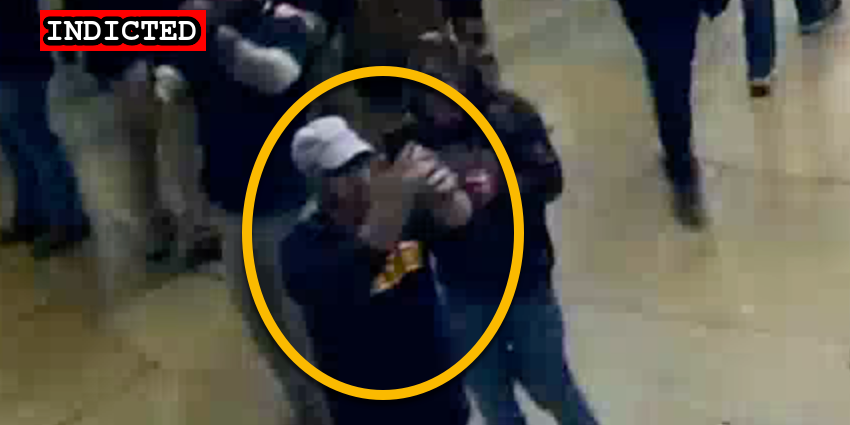
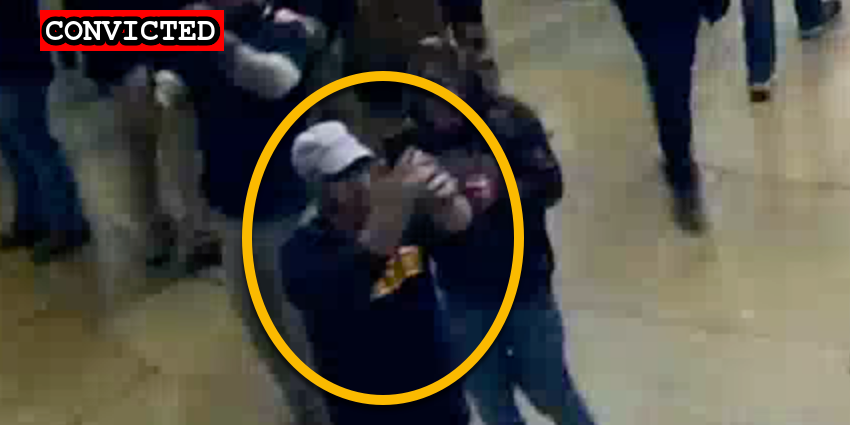
Dolan Plea

diff --git a/docs/_suspects/jason-dolan.md b/docs/_suspects/jason-dolan.md
@@ -3,11 +3,11 @@ name: Jason Dolan
 lastName: Dolan
 aka:
 residence: Florida
-status: Indicted
+status: Convicted
 date: 2021-05-26
 charged: 2021-05-26
 indicted: 2021-05-26
-convicted:
+convicted: 2021-09-15
 sentenced:
 dismissed:
 deceased:
@@ -31,7 +31,16 @@ published: true
 caseNumber: 1:21-cr-28
 videos:
 charges:
+  - code: '18 USC § 371'
+    title: 'Conspiracy to commit an offense against the United States'
+    url: 'https://www.law.cornell.edu/uscode/text/18/371'
+    felony: true
+  - code: '18 USC § 1512(c)(2)'
+    title: 'Obstruction of Congress'
+    url: 'https://www.law.cornell.edu/uscode/text/18/1512'
+    felony: true
 ---
+
 - [News Report](https://www.palmbeachpost.com/story/news/2021/06/01/marine-wellington-arrested-capitol-riots/7469247002/)
 - [Indictment](https://www.justice.gov/usao-dc/press-release/file/1422696/download)
 - [Detention Hearing Transcript](https://extremism.gwu.edu/sites/g/files/zaxdzs2191/f/Jason%20Dolan%20Continued%20Detention%20Hearing%20Transcript.pdf)
